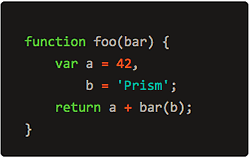
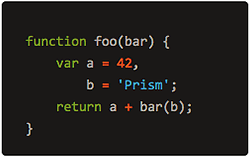
a few different values for yellow, green and cyan

diff --git a/themes/prism-base16-atelierforest.dark.css b/themes/prism-base16-atelierforest.dark.css
@@ -75,7 +75,7 @@ pre[class*="language-"] {
 }
 
 .token.property {
-  color: #d5911a;
+  color: #c38418;
 }
 
 .token.tag {
@@ -83,7 +83,7 @@ pre[class*="language-"] {
 }
 
 .token.string {
-  color: #00ad9c;
+  color: #3d97b8;
 }
 
 .token.selector {
@@ -98,7 +98,7 @@ pre[class*="language-"] {
 .token.url,
 .language-css .token.string,
 .style .token.string {
-  color: #00ad9c;
+  color: #3d97b8;
 }
 
 .token.attr-value,
@@ -106,13 +106,13 @@ pre[class*="language-"] {
 .token.control,
 .token.directive,
 .token.unit {
-  color: #5ab738;
+  color: #7b9726;
 }
 
 .token.statement,
 .token.regex,
 .token.atrule {
-  color: #00ad9c;
+  color: #3d97b8;
 }
 
 .token.placeholder,
